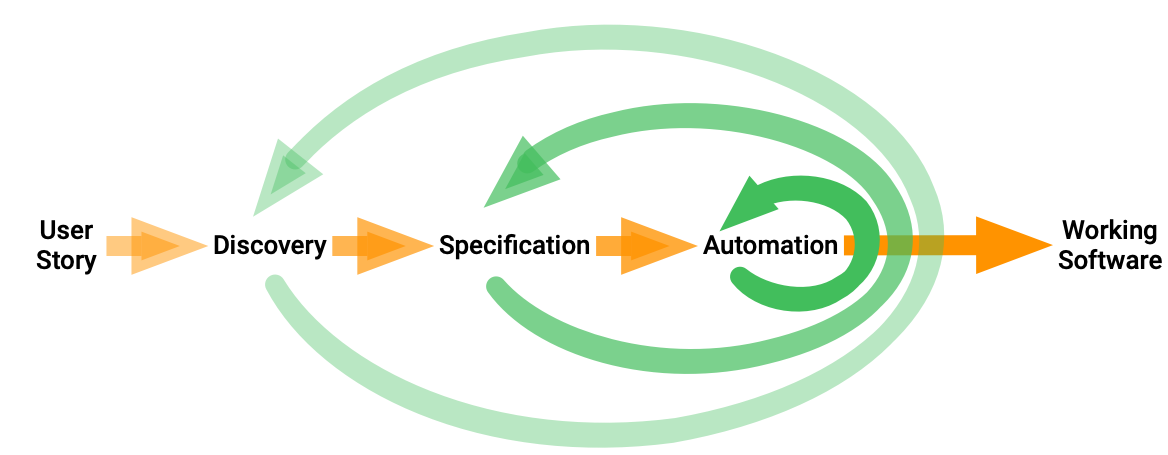
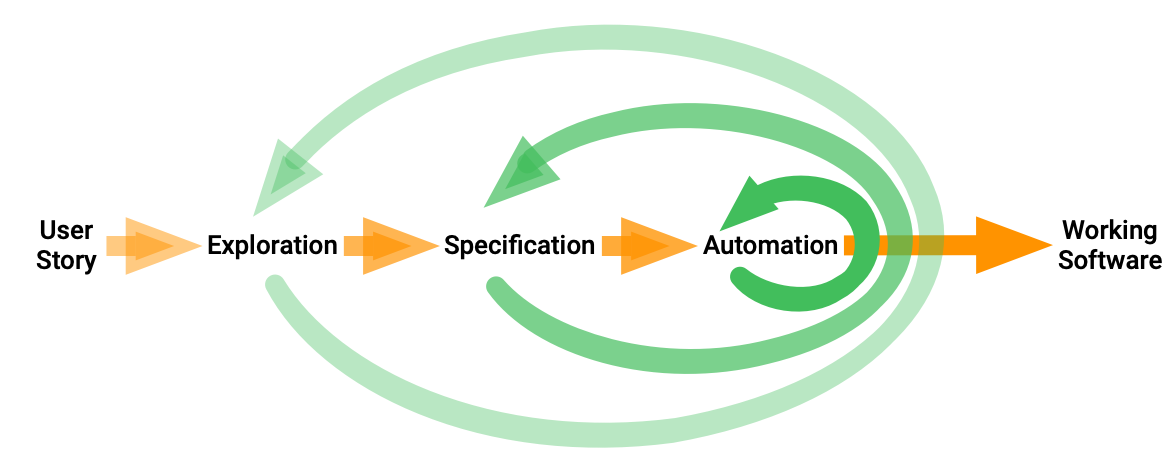
Try renaming "Discovery" to "Exploration" at Liz's suggestion

Changed region(s): [[0.0925, 0.4615, 0.524, 0.6154]]

diff --git a/content/docs/bdd/_index.md b/content/docs/bdd/_index.md
@@ -36,11 +36,11 @@ Essentially, day-to-day BDD activity is a three-step, iterative, process:
 
 The idea is to make each change small, and repeat the whole process as often as possible. Each time you automate and implement a new example, you've added something valuable to your system, and you're ready to respond to feedback.
 
-We call these practices _Discovery_, _Specification_, and _Automation_.
+We call these practices _Exploration_, _Specification_, and _Automation_.
 
 <figure>
   <img alt="diagram of how the practices fit together" src="/img/BDD practices diagram.png" width="600px">
-  <figcaption>Discovery, Specification and Automation</figcaption>
+  <figcaption>Exploration, Specification and Automation</figcaption>
 </figure> 
 
 Over time, the living documention becomes an asset that enables the team to continue confidently and rapidly making changes to the system. The code reflects the documentation, and the documentation reflects the team's shared understanding of the problem domain, which is constantly evolving.
@@ -54,7 +54,7 @@ The rewards are great, but it does require some maintenance effort and disciplin
 
 There's lots to learn about each of these practices. We'll summarise each of them below.
 
-## Discovery
+## Exploration
 
 > The hardest single part of building a software system is deciding precisely what to build.
 >
@@ -70,7 +70,7 @@ It may also reveal gaps in our understanding, where we need more information bef
 
 The scrutiny of a discovery session often reveals low-priority functionality that can be deferred the scope of a user story, helping to team to work in smaller increments and improving their flow.
 
-If you're new to BDD, discovery is where you should start. It's useless to try the other two practices until you've mastered discovery.
+If you're new to BDD, exploration is the best place to start. It's useless to try the other two practices until you've mastered exploration.
 
 ## Specification
 
@@ -99,7 +99,7 @@ This rapid, repeatable feedback reduces the burden of manual testing, freeing pe
 
 Over time, as your living documenation and codebase grow together, a symbiotic relationship develops betweemn them. The documentation reflects the behaviour of the code, giving the whole team confidence about exactly what the system does. The code reflects the documentation, with rapid feedback for the developers if the code's behaviour strays outside the boundary defined by the living documentation.
 
-This is where the investment of all that discovery, specification and automation work pays off. The team are able to confidently and rapidly adapt the system --- and it's documentation --- to meet the business' evolving needs.
+This is where the investment of all that exploration, specification and automation work pays off. The team are able to confidently and rapidly adapt the system --- and it's documentation --- to meet the business' evolving needs.
 
 This habitation stage will involve some maintenance effort. The documentation needs to reflect the team's shared understanding of the propblem domain, and that understanding is constantly evolving. Just like code [needs to be refactored to reflect the team's emerging understanding of the problem](https://www.youtube.com/watch?v=Jp5japiHAs4), so does your documentation, if you want it to remain living.
 
